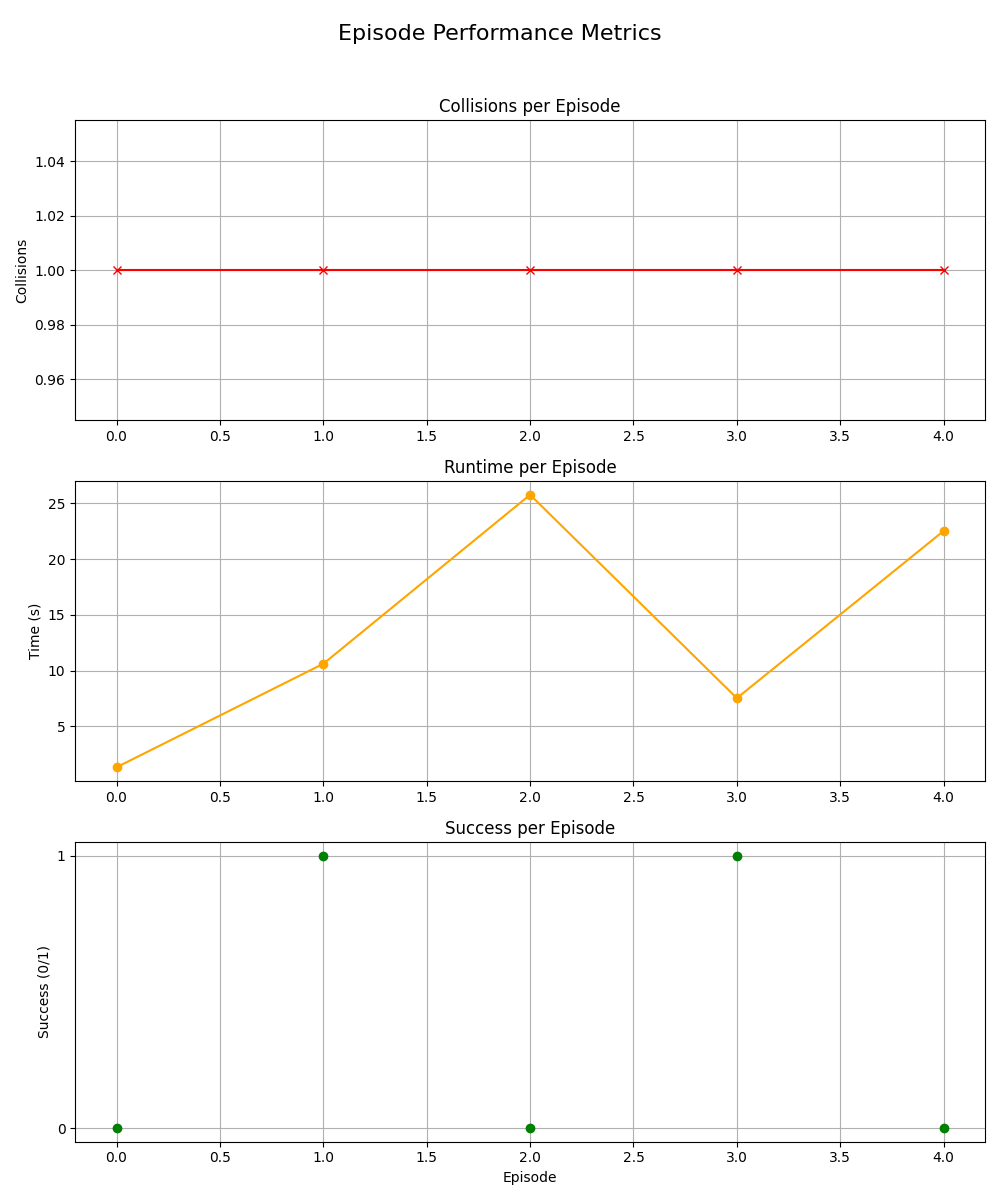
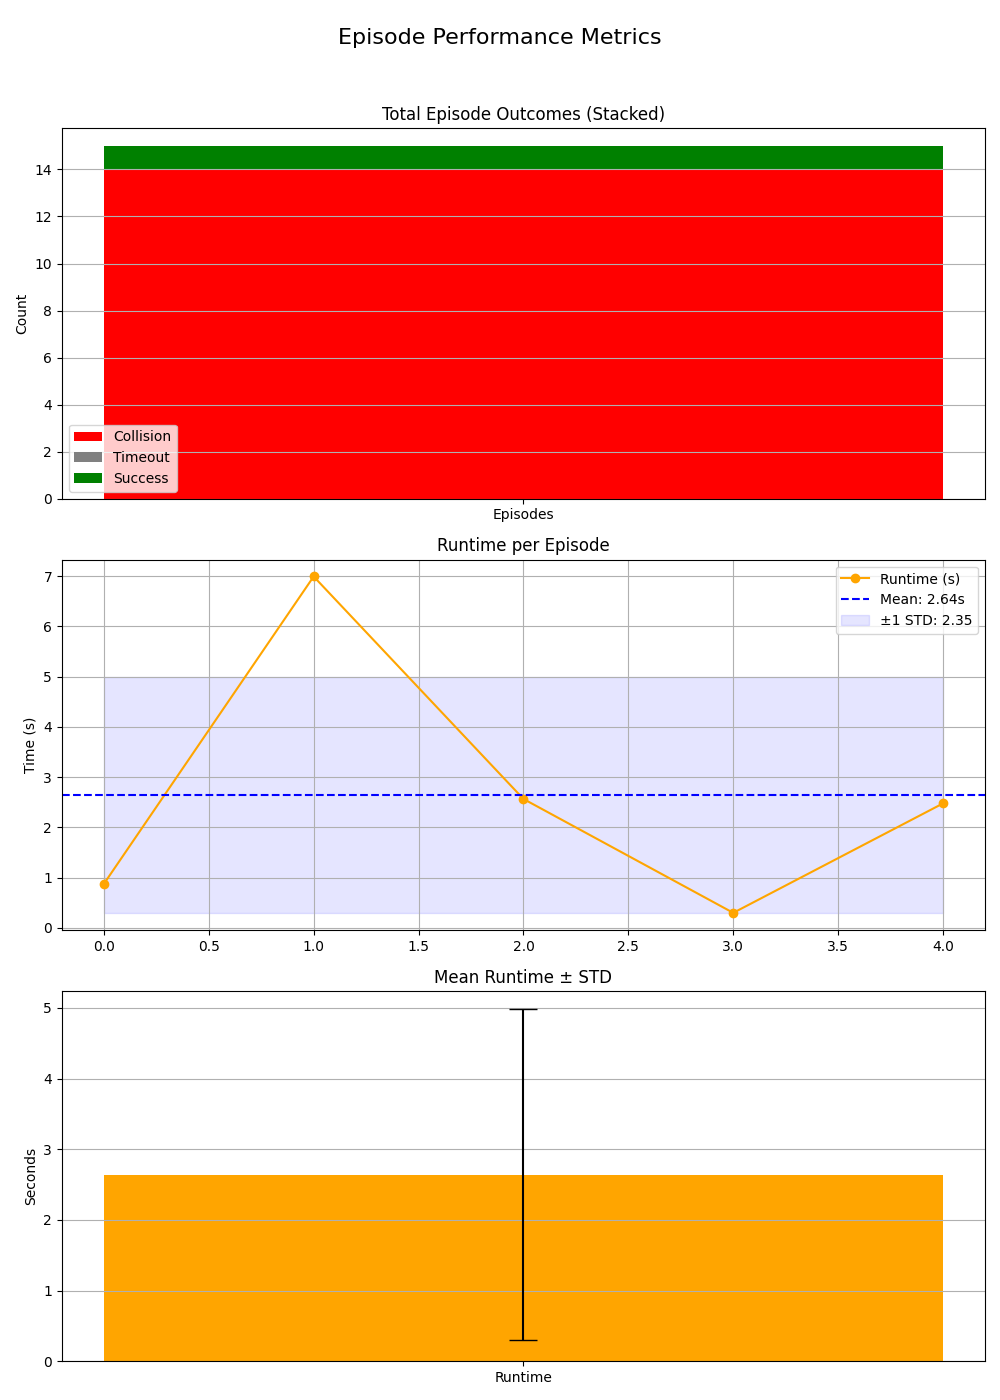
improved subplots now have std dev and bar plots, old plots sucked

diff --git a/TD3/nav_plot.py b/TD3/nav_plot.py
@@ -2,6 +2,7 @@ import sys
 import os
 import csv
 import matplotlib.pyplot as plt
+import numpy as np
 
 if len(sys.argv) != 3:
     print("Usage: python nav_plot.py <model_name> <plot_dir>")
@@ -16,6 +17,7 @@ csv_path = os.path.join("/home/asus/DRL-robot-navigation/TD3/nav_data", f"run_st
 # Create plot_dir if needed
 os.makedirs(plot_dir, exist_ok=True)
 
+# Load data
 episodes = []
 collisions = []
 timeouts = []
@@ -31,31 +33,49 @@ with open(csv_path, 'r') as csvfile:
         runtimes.append(float(row["runtime_s"]))
         successes.append(int(row["success"]))
 
+# Compute totals for the stacked outcome bar
+total_collisions = sum(collisions)
+total_timeouts = sum(timeouts)
+total_successes = sum(successes)
+
+# --- Compute stats for mean runtime ---
+mean_runtime = np.mean(runtimes)
+std_runtime = np.std(runtimes)
 
 # Create subplots
-fig, axs = plt.subplots(3, 1, figsize=(10, 12))
+fig, axs = plt.subplots(3, 1, figsize=(10, 14))
 fig.suptitle("Episode Performance Metrics", fontsize=16)
 
-# --- Subplot 1: Collisions ---
-axs[0].plot(episodes, collisions, label="Collisions", marker='x', color='red')
-axs[0].set_ylabel("Collisions")
-axs[0].set_title("Collisions per Episode")
-axs[0].grid(True)
+# --- Subplot 1: Single Stacked Outcome Bar ---
+axs[0].bar(["Episodes"], [total_collisions], label="Collision", color='red')
+axs[0].bar(["Episodes"], [total_timeouts], bottom=[total_collisions], label="Timeout", color='gray')
+axs[0].bar(["Episodes"], [total_successes], bottom=[total_collisions + total_timeouts], label="Success", color='green')
+axs[0].set_ylabel("Count")
+axs[0].set_title("Total Episode Outcomes (Stacked)")
+axs[0].legend()
+axs[0].grid(True, axis='y')
 
 # --- Subplot 2: Runtime ---
 axs[1].plot(episodes, runtimes, label="Runtime (s)", marker='o', color='orange')
+axs[1].axhline(mean_runtime, color='blue', linestyle='--', label=f"Mean: {mean_runtime:.2f}s")
+axs[1].fill_between(episodes,
+                    mean_runtime - std_runtime,
+                    mean_runtime + std_runtime,
+                    color='blue',
+                    alpha=0.1,
+                    label=f"±1 STD: {std_runtime:.2f}")
 axs[1].set_ylabel("Time (s)")
 axs[1].set_title("Runtime per Episode")
+axs[1].legend()
 axs[1].grid(True)
 
-# --- Subplot 3: Success ---
-axs[2].plot(episodes, successes, label="Success", marker='o', linestyle='', color='green')
-axs[2].set_xlabel("Episode")
-axs[2].set_ylabel("Success (0/1)")
-axs[2].set_title("Success per Episode")
-axs[2].set_yticks([0, 1])
-axs[2].grid(True)
+# --- Subplot 3: Runtime Mean Summary ---
+axs[2].bar(["Runtime"], [mean_runtime], yerr=[std_runtime], capsize=10, color='orange')
+axs[2].set_ylabel("Seconds")
+axs[2].set_title("Mean Runtime ± STD")
+axs[2].grid(axis='y')
 
+# Save and show
 plt.tight_layout(rect=[0, 0, 1, 0.96])
 plt.savefig(os.path.join(plot_dir, f"{model_name}_summary_subplot.png"))
 plt.show()
